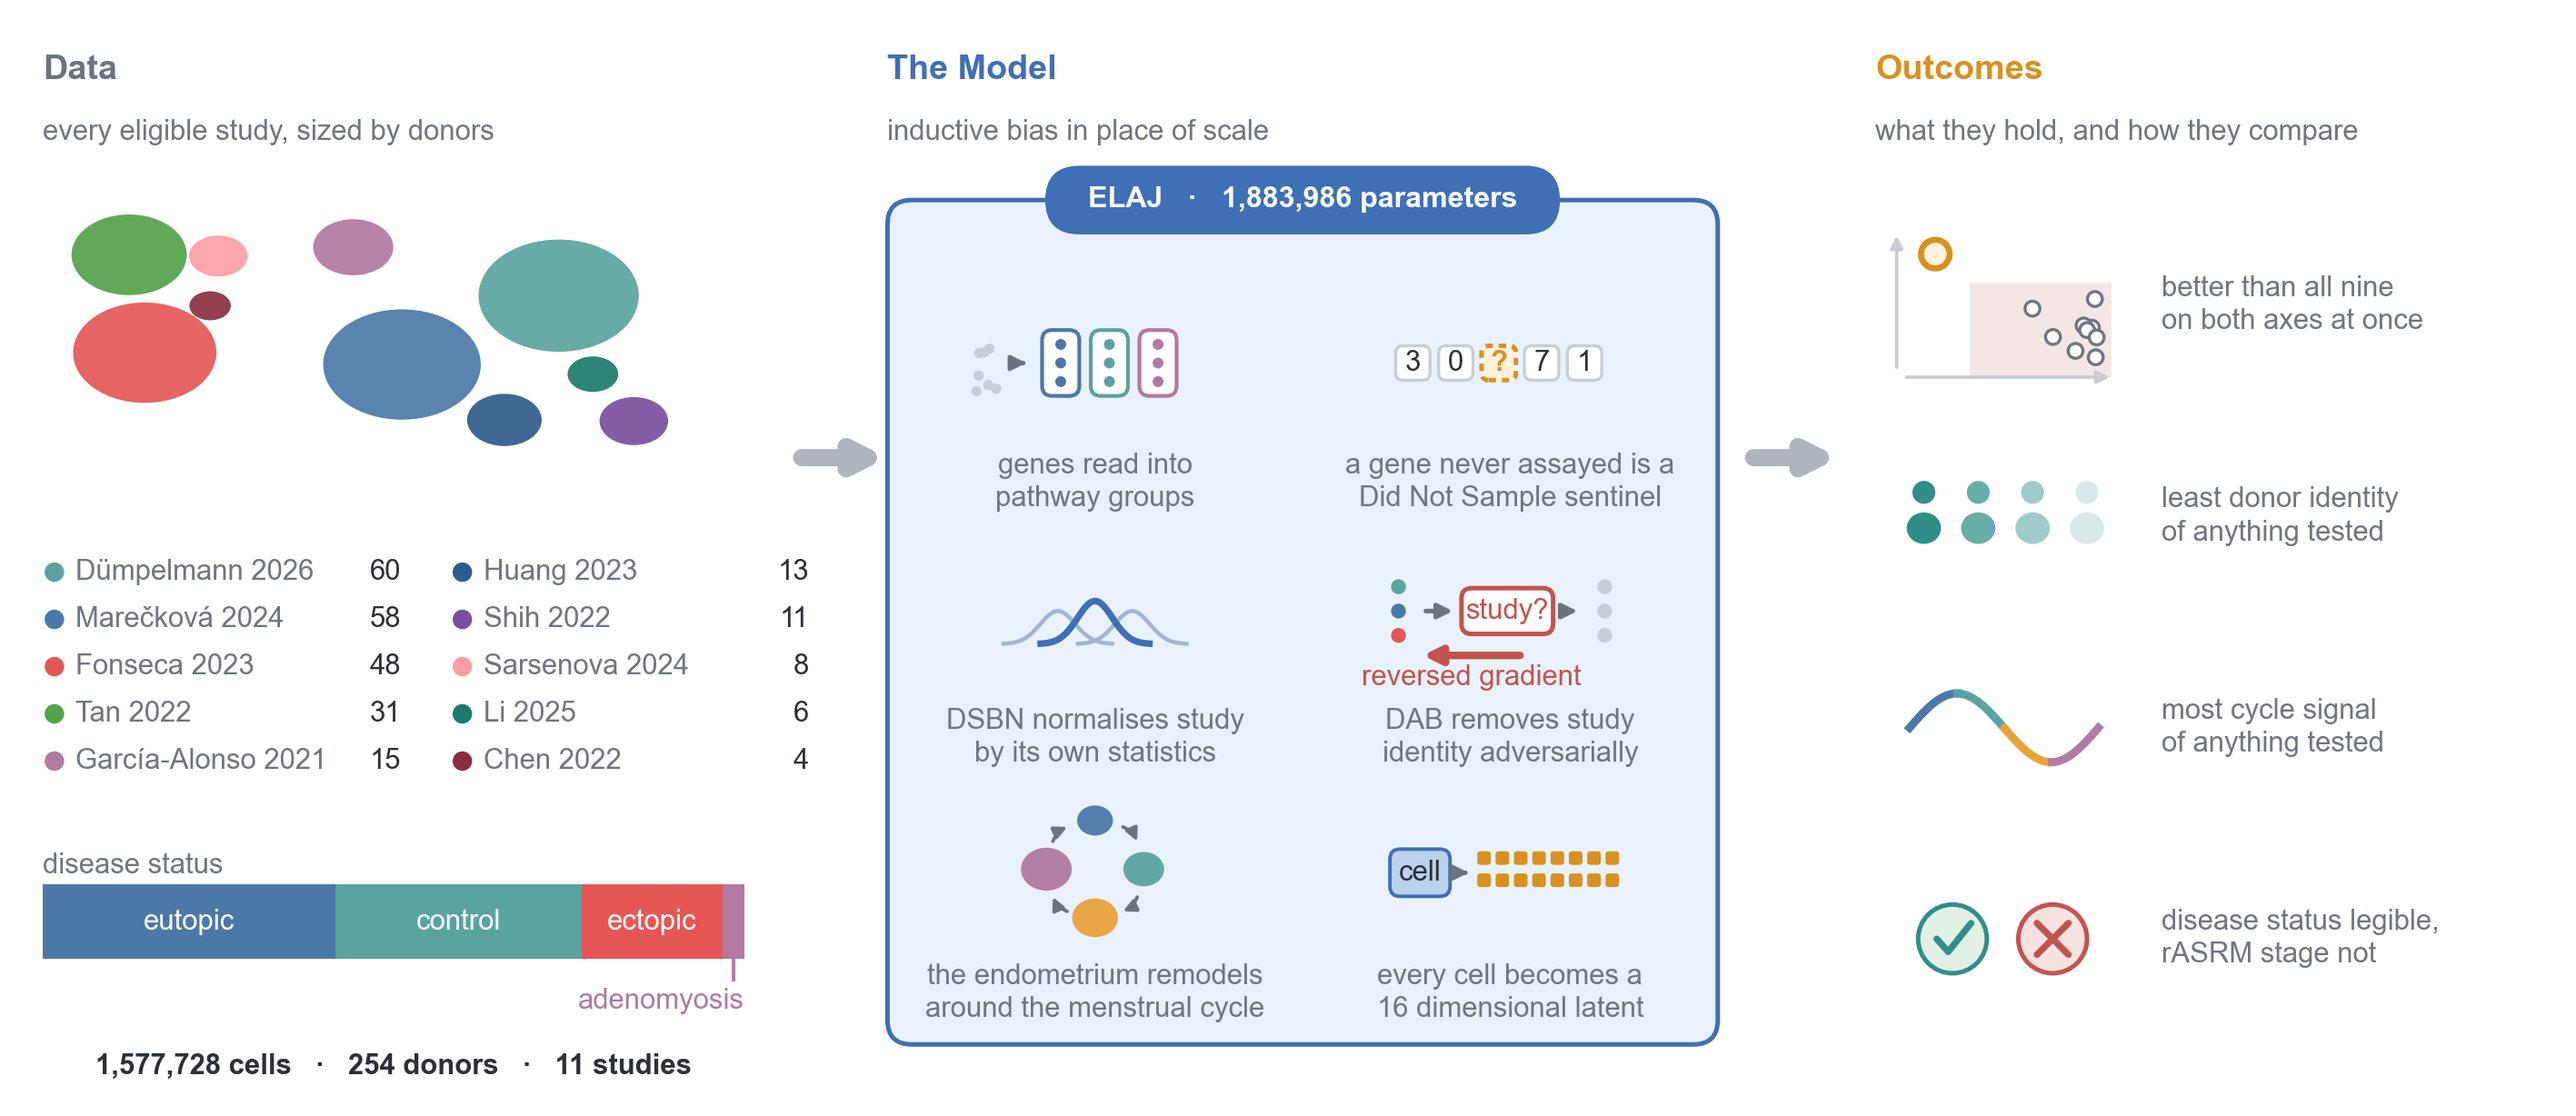
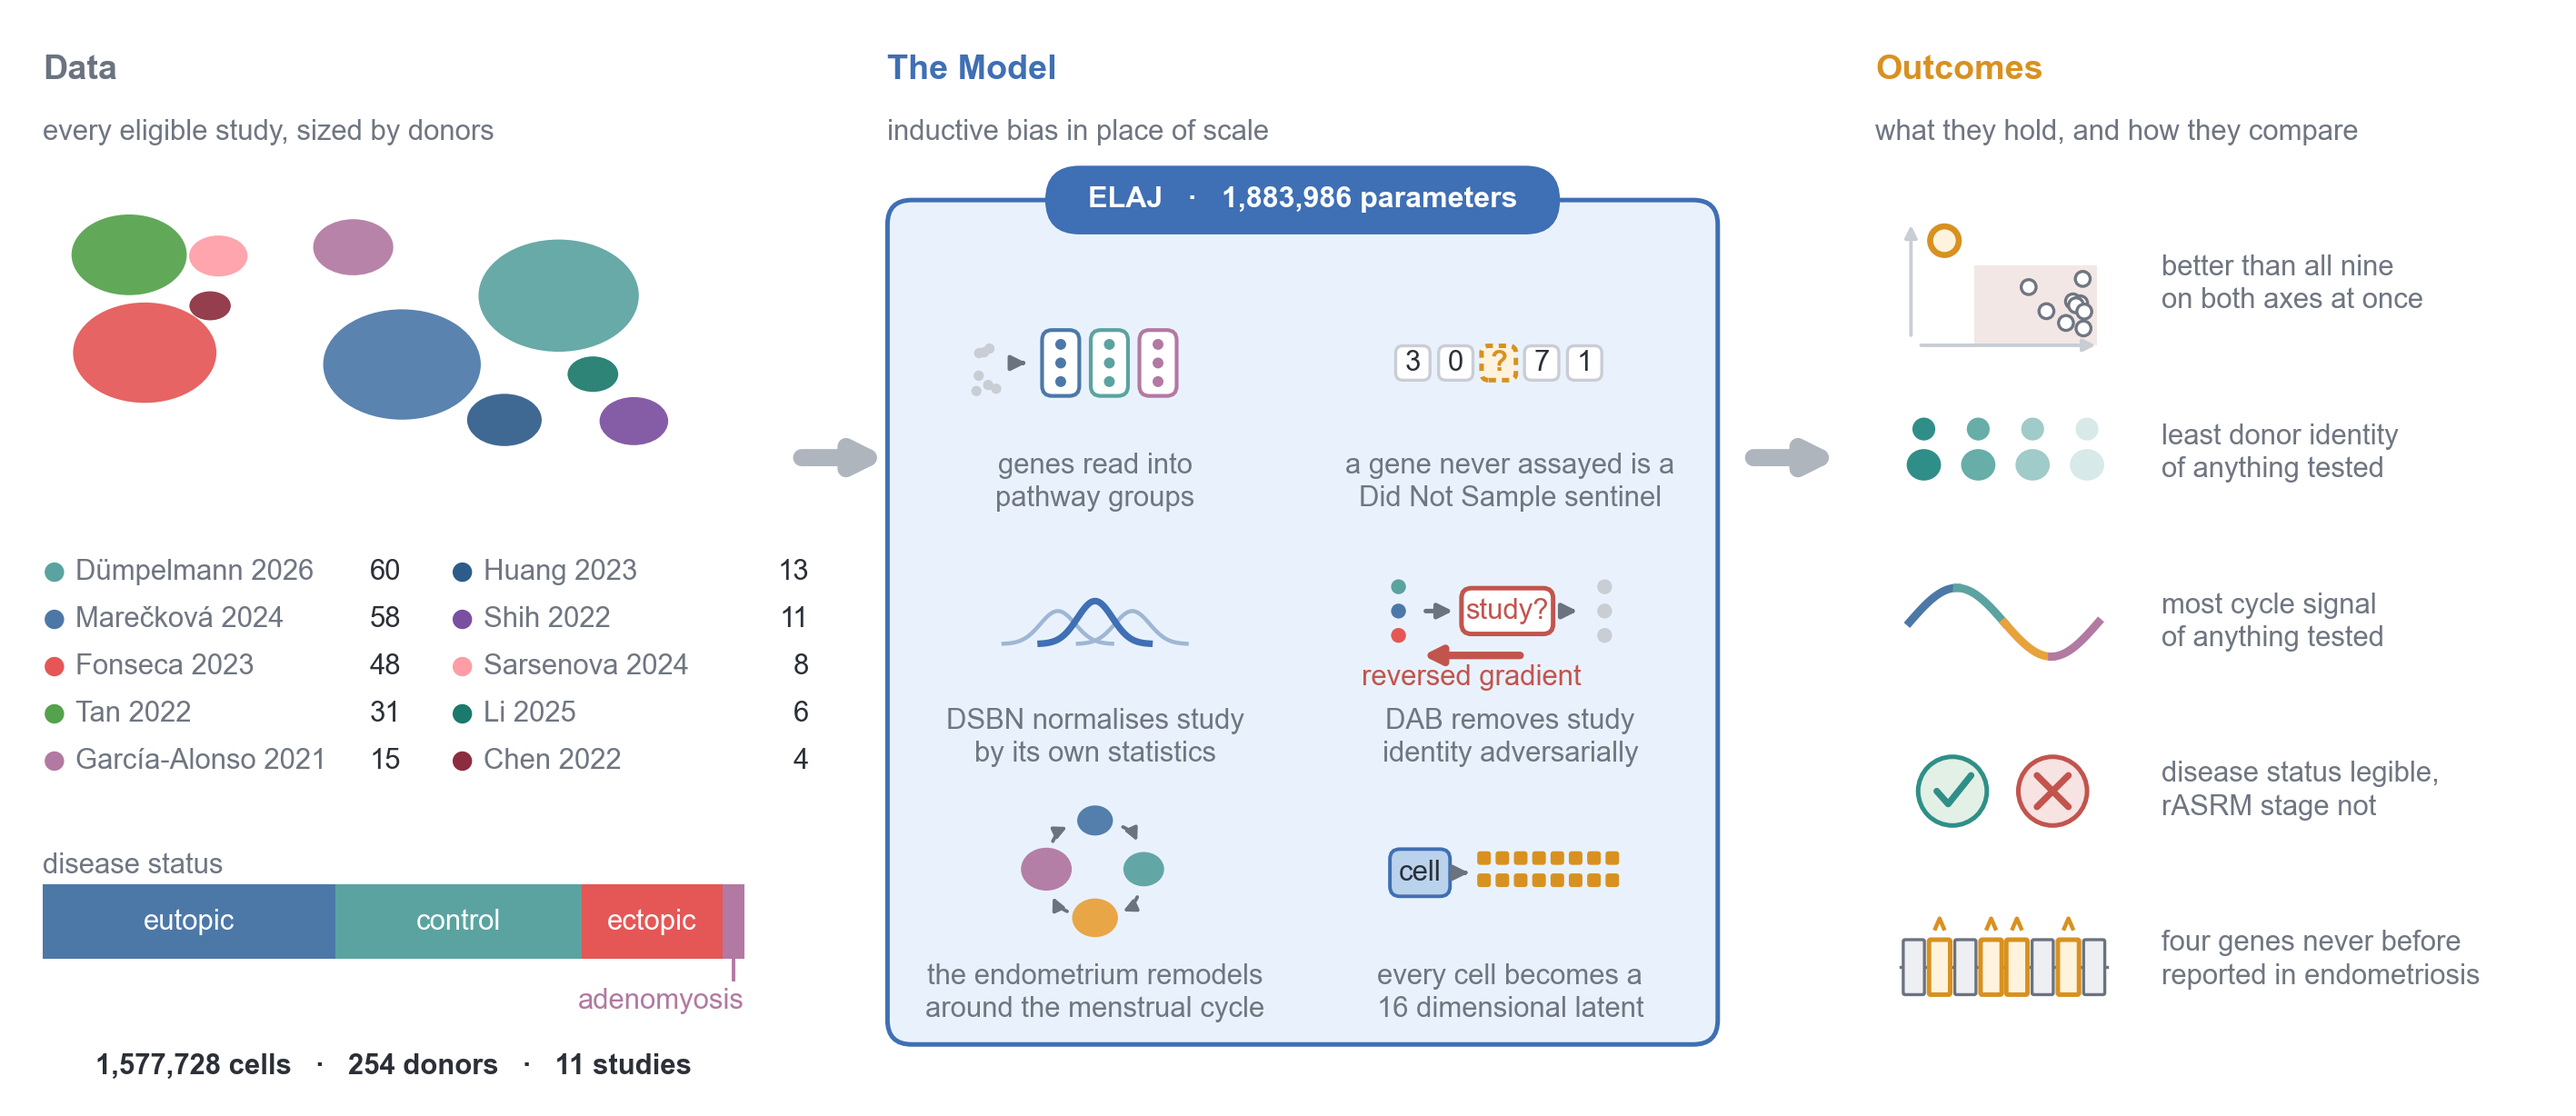
Figure 1a: a fifth outcome, four genes never before reported
AW: "F1 pictogram is good. Please add it to Fig 1a Outcomes." The script
now writes panel_a_abstract.png itself, which was a hand copy.

diff --git a/figures/scripts/mock_fig1a_opt8.py b/figures/scripts/mock_fig1a_opt8.py
@@ -211,8 +211,9 @@ def pic_latent(ax, cx, cy):
 
 # ── outcomes ────────────────────────────────────────────────────────────
 def res_dominance(ax, cx, cy):
-    """Unsquashed: the axes are the point, so give them room."""
-    w, h = 15.0, 10.0
+    """Unsquashed: the axes are the point, so give them room. 13 x 8.5, not
+    15 x 10, since the fifth outcome row (17 Nov) cut the row pitch to 11.8."""
+    w, h = 13.0, 8.5
     x0, y0 = cx - w / 2, cy - h / 2
     ax.add_patch(Rectangle((x0 + w * .34, y0), w * .66, h * .66,
                            fc="#F3E7E5", ec="none", zorder=2))
@@ -259,6 +260,23 @@ def res_dissociation(ax, cx, cy):
     for s in (1, -1):
         ax.plot([cx + 2.3, cx + 4.5][::s], [cy - 1.1, cy + 1.1],
                 color=ROSE, lw=1.3, solid_capstyle="round", zorder=5)
+
+
+def res_new_genes(ax, cx, cy):
+    """AW, 17 Nov: 'F1 pictogram is good. Please add it to Fig 1a Outcomes.'
+    A strand of gene tags, four lit, each with a small mark above it: the
+    four disease-side genes with no prior endometriosis report."""
+    xs = np.linspace(cx - 6.3, cx + 6.3, 8)
+    ax.plot([cx - 7.2, cx + 7.2], [cy - 0.5, cy - 0.5], color=GREY_E, lw=.6, zorder=3)
+    for i, x in enumerate(xs):
+        on = i in (1, 3, 4, 6)
+        ax.add_patch(FancyBboxPatch((x - .62, cy - 2.3), 1.24, 3.6,
+                                    "round,pad=0.12", fc=AMB_F if on else GREY_F,
+                                    ec=AMB_E if on else GREY_E, lw=.9 if on else .6,
+                                    zorder=4))
+        if on:
+            ax.plot([x - .3, x, x + .3], [cy + 2.2, cy + 2.9, cy + 2.2],
+                    color=AMB_E, lw=.8, zorder=5)
 
 
 def main() -> None:
@@ -356,11 +374,12 @@ def main() -> None:
     # ── Outcomes ────────────────────────────────────────────────────────
     head(ax, 131, TOP, "Outcomes", "what they hold, and how they compare", AMB_E)
     RX, RY, RW, RH = 131.0, 5.0, 46.0, 59.0
-    rh = RH / 4
     rdraw = [(res_dominance, ["better than all nine", "on both axes at once"]),
              (res_donor, ["least donor identity", "of anything tested"]),
              (res_cycle, ["most cycle signal", "of anything tested"]),
-             (res_dissociation, ["disease status legible,", "rASRM stage not"])]
+             (res_dissociation, ["disease status legible,", "rASRM stage not"]),
+             (res_new_genes, ["four genes never before", "reported in endometriosis"])]
+    rh = RH / len(rdraw)
     for i, (fn, lines) in enumerate(rdraw):
         cy = RY + RH - rh * (i + .5)
         fn(ax, RX + 9.0, cy)
@@ -370,6 +389,10 @@ def main() -> None:
 
     OUT.mkdir(parents=True, exist_ok=True)
     fig.savefig(OUT / "mock_fig1a_opt8.png",
+                dpi=int(os.environ.get("FIGDPI", 400)))
+    # figure1.py reads panel_a_abstract.png; it was a hand copy of this file,
+    # so write it here and the two cannot drift
+    fig.savefig(OUT / "panel_a_abstract.png",
                 dpi=int(os.environ.get("FIGDPI", 400)))
     print(f"wrote {OUT / 'mock_fig1a_opt8.png'}  ({W:.0f} x {H:.0f} mm)")
     print(f"  tiles: {len(per)} donor groups summing to {per.sum()}")
